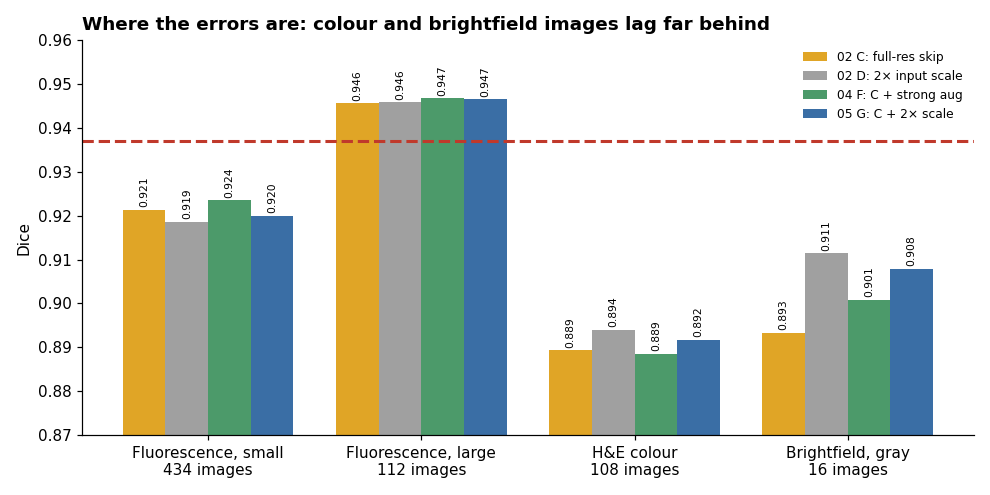
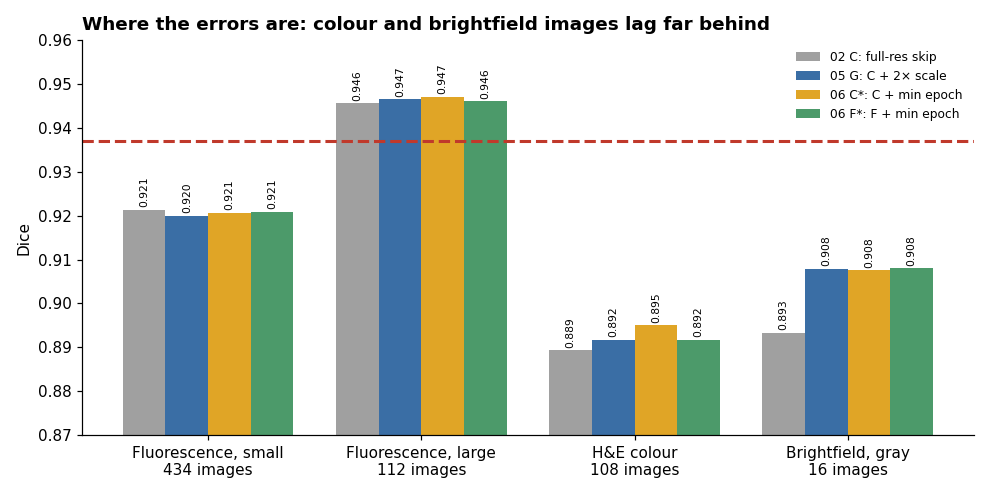
Record spec 06: C* +0.10 against C and is the new baseline; F* -0.05 against C*, augmentation closed
No fold stopped before epoch 43. With training length fixed, the strong
augmentation adds nothing to Dice. All four arms sit within 0.17 points.

diff --git a/reports/make_figures.py b/reports/make_figures.py
@@ -31,6 +31,8 @@ LABELS = {  # slug -> short name for plots
     "s03-hires-nsl1": "03 E\nC + NSL 1/255",
     "s04-hires-aug": "04 F\nC + strong aug",
     "s05-hires-scale2": "05 G\nC + 2× scale",
+    "s06-hires-min30": "06 C*\nC + min epoch",
+    "s06-hires-aug-min30": "06 F*\nF + min epoch",
 }
 TYPES = {  # image_type key -> plain name
     "dark-gray/small": "Fluorescence, small",
@@ -54,7 +56,7 @@ def load_runs():
 
 def progress(runs):
     best = max(runs, key=lambda r: r["m"]["cv"].get("tta", r["m"]["cv"])["dice"])
-    fig, ax = plt.subplots(figsize=(11, 5))
+    fig, ax = plt.subplots(figsize=(13, 5))
     x = np.arange(len(runs))
     for i, r in enumerate(runs):
         cv = r["m"]["cv"]
@@ -87,7 +89,7 @@ def progress(runs):
 
 def folds(runs):
     fig, ax = plt.subplots(figsize=(9, 4.5))
-    shown = {"s02-base": GRAY, "s02-hires": GOLD, "s04-hires-aug": GREEN, "s05-hires-scale2": BLUE}
+    shown = {"s02-hires": GRAY, "s04-hires-aug": GREEN, "s06-hires-min30": GOLD, "s06-hires-aug-min30": BLUE}
     for r in [r for r in runs if r["slug"] in shown]:
         c = shown[r["slug"]]
         f = r["m"]["folds"]
@@ -110,10 +112,10 @@ def by_type(runs, splits):
     counts = {t: 0 for t in TYPES}
     for t in splits["image_type"].values():
         counts[t] += 1
-    shown = [r for r in runs if r["slug"] in ("s02-hires", "s02-scale2", "s04-hires-aug", "s05-hires-scale2")]
+    shown = [r for r in runs if r["slug"] in ("s02-hires", "s05-hires-scale2", "s06-hires-min30", "s06-hires-aug-min30")]
     fig, ax = plt.subplots(figsize=(9, 4.5))
     w = 0.2
-    for j, (r, c) in enumerate(zip(shown, (GOLD, GRAY, GREEN, BLUE))):
+    for j, (r, c) in enumerate(zip(shown, (GRAY, BLUE, GOLD, GREEN))):
         vals = [r["m"]["dice_by_type"][t] for t in TYPES]
         bars = ax.bar(np.arange(len(TYPES)) + (j - 1.5) * w, vals, w, color=c, label=r["label"].replace("\n", ": "))
         for b, v in zip(bars, vals):
@@ -132,7 +134,7 @@ def cost(runs):
     fig, (a1, a2) = plt.subplots(1, 2, figsize=(11, 4.2))
     for r in runs:
         m = r["m"]
-        a1.scatter(m["minutes"], m["cv"]["dice"], s=m["peak_vram_gb"] * 25, color=GOLD if r["slug"] == "s02-hires" else BLUE,
+        a1.scatter(m["minutes"], m["cv"]["dice"], s=m["peak_vram_gb"] * 25, color=GOLD if r["slug"] == "s06-hires-min30" else BLUE,
                    alpha=0.8)
         a1.annotate(r["label"].replace("\n", ": "), (m["minutes"], m["cv"]["dice"]), textcoords="offset points",
                     xytext=(8, -3), fontsize=8)

diff --git a/specs/06-min-epoch.md b/specs/06-min-epoch.md
@@ -1,6 +1,6 @@
 # 06: No early stop before epoch 30, with and without strong augmentation
 
-Status: approved 2026-10-02, running.
+Status: done 2026-10-03. No win for either arm: C* +0.10 points against C, F* −0.05 against C*. C* is the new baseline (see Outcome).
 
 ## Question
 
@@ -38,3 +38,55 @@ If either arm's TTA Dice reaches 0.937, we ask whether to score the locked test 
 ## Budget
 
 C ran 0.51 minutes per epoch and F 0.54. Each fold now runs 40 to 60 epochs, so C* should take 1.7 to 2.6 hours and F* 1.8 to 2.7 hours, about 4 to 5 GPU-hours together. The two kernels run in parallel. If fold 0 of either arm takes more than 40 minutes, we stop and ask.
+
+## Outcome
+
+| Arm | Run | CV Dice | Dice with TTA | IoU | Pooled Dice | FGSM Dice | Epochs per fold | Minutes |
+|---|---|---|---|---|---|---|---|---|
+| C | 20260925-b3fe577-s02-hires | 0.9196 ± 0.0088 | 0.9211 | 0.8588 | 0.9378 | 0.818 | 48/27/36/47/39 | 100 |
+| F | 20260928-a6250b2-s04-hires-aug | 0.9213 ± 0.0059 | 0.9227 | 0.8608 | 0.9387 | 0.833 | 60/53/34/34/46 | 123 |
+| C* | 20261002-fa7e63a-s06-hires-min30 | 0.9207 ± 0.0081 | 0.9219 | 0.8611 | 0.9390 | 0.812 | 43/60/60/49/52 | 131 |
+| F* | 20261002-fa7e63a-s06-hires-aug-min30 | 0.9201 ± 0.0065 | 0.9214 | 0.8594 | 0.9383 | 0.832 | 52/44/60/54/46 | 129 |
+
+Per fold:
+
+| Arm | Fold 0 | Fold 1 | Fold 2 | Fold 3 | Fold 4 |
+|---|---|---|---|---|---|
+| C | 0.9202 | 0.9146 | 0.9219 | 0.9325 | 0.9090 |
+| F | 0.9204 | 0.9177 | 0.9201 | 0.9314 | 0.9167 |
+| C* | 0.9188 | 0.9197 | 0.9233 | 0.9320 | 0.9095 |
+| F* | 0.9156 | 0.9164 | 0.9229 | 0.9303 | 0.9155 |
+
+- **C* against C:** +0.10 points, ahead on 3 of 5 folds (−0.14, +0.50, +0.14, −0.05, +0.06). No win. The mean is
+  not below C's, so C* is the baseline from here. The gain is fold 1, which trained to epoch 60 instead of 27.
+- **F* against C*:** −0.05 points, ahead on 1 of 5 folds (−0.32, −0.32, −0.04, −0.17, +0.60). No win.
+- **F* against F:** −0.11 points. With training length fixed, the strong augmentation adds nothing to Dice. F's
+  +0.16 in spec 04 came from noise and from its fold 1 training longer, not from the augmentation.
+
+All four arms sit within 0.17 points, inside the run-to-run noise of about 0.3. Neither TTA Dice reaches 0.937,
+so the locked test set stays untouched.
+
+Dice by image type:
+
+| Type | Images | C | F | C* | F* |
+|---|---|---|---|---|---|
+| Fluorescence, small | 434 | 0.921 | 0.924 | 0.921 | 0.921 |
+| Fluorescence, large | 112 | 0.946 | 0.947 | 0.947 | 0.946 |
+| H&E, colour | 108 | 0.889 | 0.889 | 0.895 | 0.892 |
+| Brightfield, grayscale | 16 | 0.893 | 0.901 | 0.908 | 0.908 |
+
+Longer training helped the two weak types a little: H&E +0.6 points and brightfield +1.4 (16 images, so noisy).
+That matches the brightfield gain the 2× scale gave in specs 02 and 05, at a third of the cost.
+
+The minimum epoch did its job: no fold stopped before epoch 43. But the stop set is still a weak guide. In C*'s
+fold 1 the stop-set Dice fell from about 0.925 to 0.895 near epoch 23 and stayed there to epoch 60, while that
+fold's validation Dice rose 0.50 against C. Spec 05's arm G showed the same drop on the same fold. With 49 images,
+one or two images that flip are enough to move the stop-set mean by 3 points. This also explains why C's fold 1 stopped at 27.
+
+The augmentation still helps under attack (FGSM Dice 0.832 against 0.812), as in spec 04.
+
+Fold 0 took 24 minutes in C* and 29 in F*, inside the 40-minute limit. C* took 131 minutes, 1.3 times C.
+
+Verdict: C* is the baseline. Strong augmentation is closed for the Dice target. Training-recipe changes (NSL,
+2× scale, augmentation, training length) have all landed between 0.919 and 0.921, so the remaining 1.5 points
+need a different kind of change.

diff --git a/JOURNAL.md b/JOURNAL.md
@@ -105,3 +105,16 @@ points: its stop-set Dice peaked at epoch 3, during warm-up, and training stoppe
 0.33 on average. G kept most of D's brightfield and H&E gains but not C's small-fluorescence gain. It took 343
 minutes (3.4 times C) and peaked at 15.2 GB, close to the T4's limit. Early stopping cut a fold short in 4 of the 6 runs
 since spec 02 began, so fixing it comes next.
+
+## 2026-10-03: spec 06 arm C* (C + minimum epoch 30), run 20261002-fa7e63a-s06-hires-min30
+CV Dice 0.9207 (0.9219 with TTA), +0.10 points against C and ahead on 3 of 5 folds. That is no win, but it is not
+below C, so C* is the baseline from here. No fold stopped early: they ran 43 to 60 epochs. Fold 1 trained to
+epoch 60 instead of 27 and gained 0.50. H&E rose from 0.889 to 0.895 and brightfield (16 images) from 0.893 to 0.908.
+In fold 1 the stop-set Dice fell 3 points near epoch 23 and stayed there, while the fold's validation Dice rose.
+So the 49-image stop set is a weak guide for picking the epoch. It took 131 minutes, 1.3 times C.
+
+## 2026-10-03: spec 06 arm F* (F + minimum epoch 30), run 20261002-fa7e63a-s06-hires-aug-min30
+CV Dice 0.9201 (0.9214 with TTA), 0.05 points below C* and ahead on 1 of 5 folds, so no win. It is also 0.11
+below F. With training length fixed, the strong augmentation adds nothing to Dice; F's +0.16 in spec 04 was noise
+and longer training. It still helps under attack (FGSM Dice 0.832 against 0.812). C, F, C* and F* all sit within
+0.17 points, inside the run-to-run noise of about 0.3. Still 1.5 points short of 0.937 (best TTA stays F's 0.9227).
